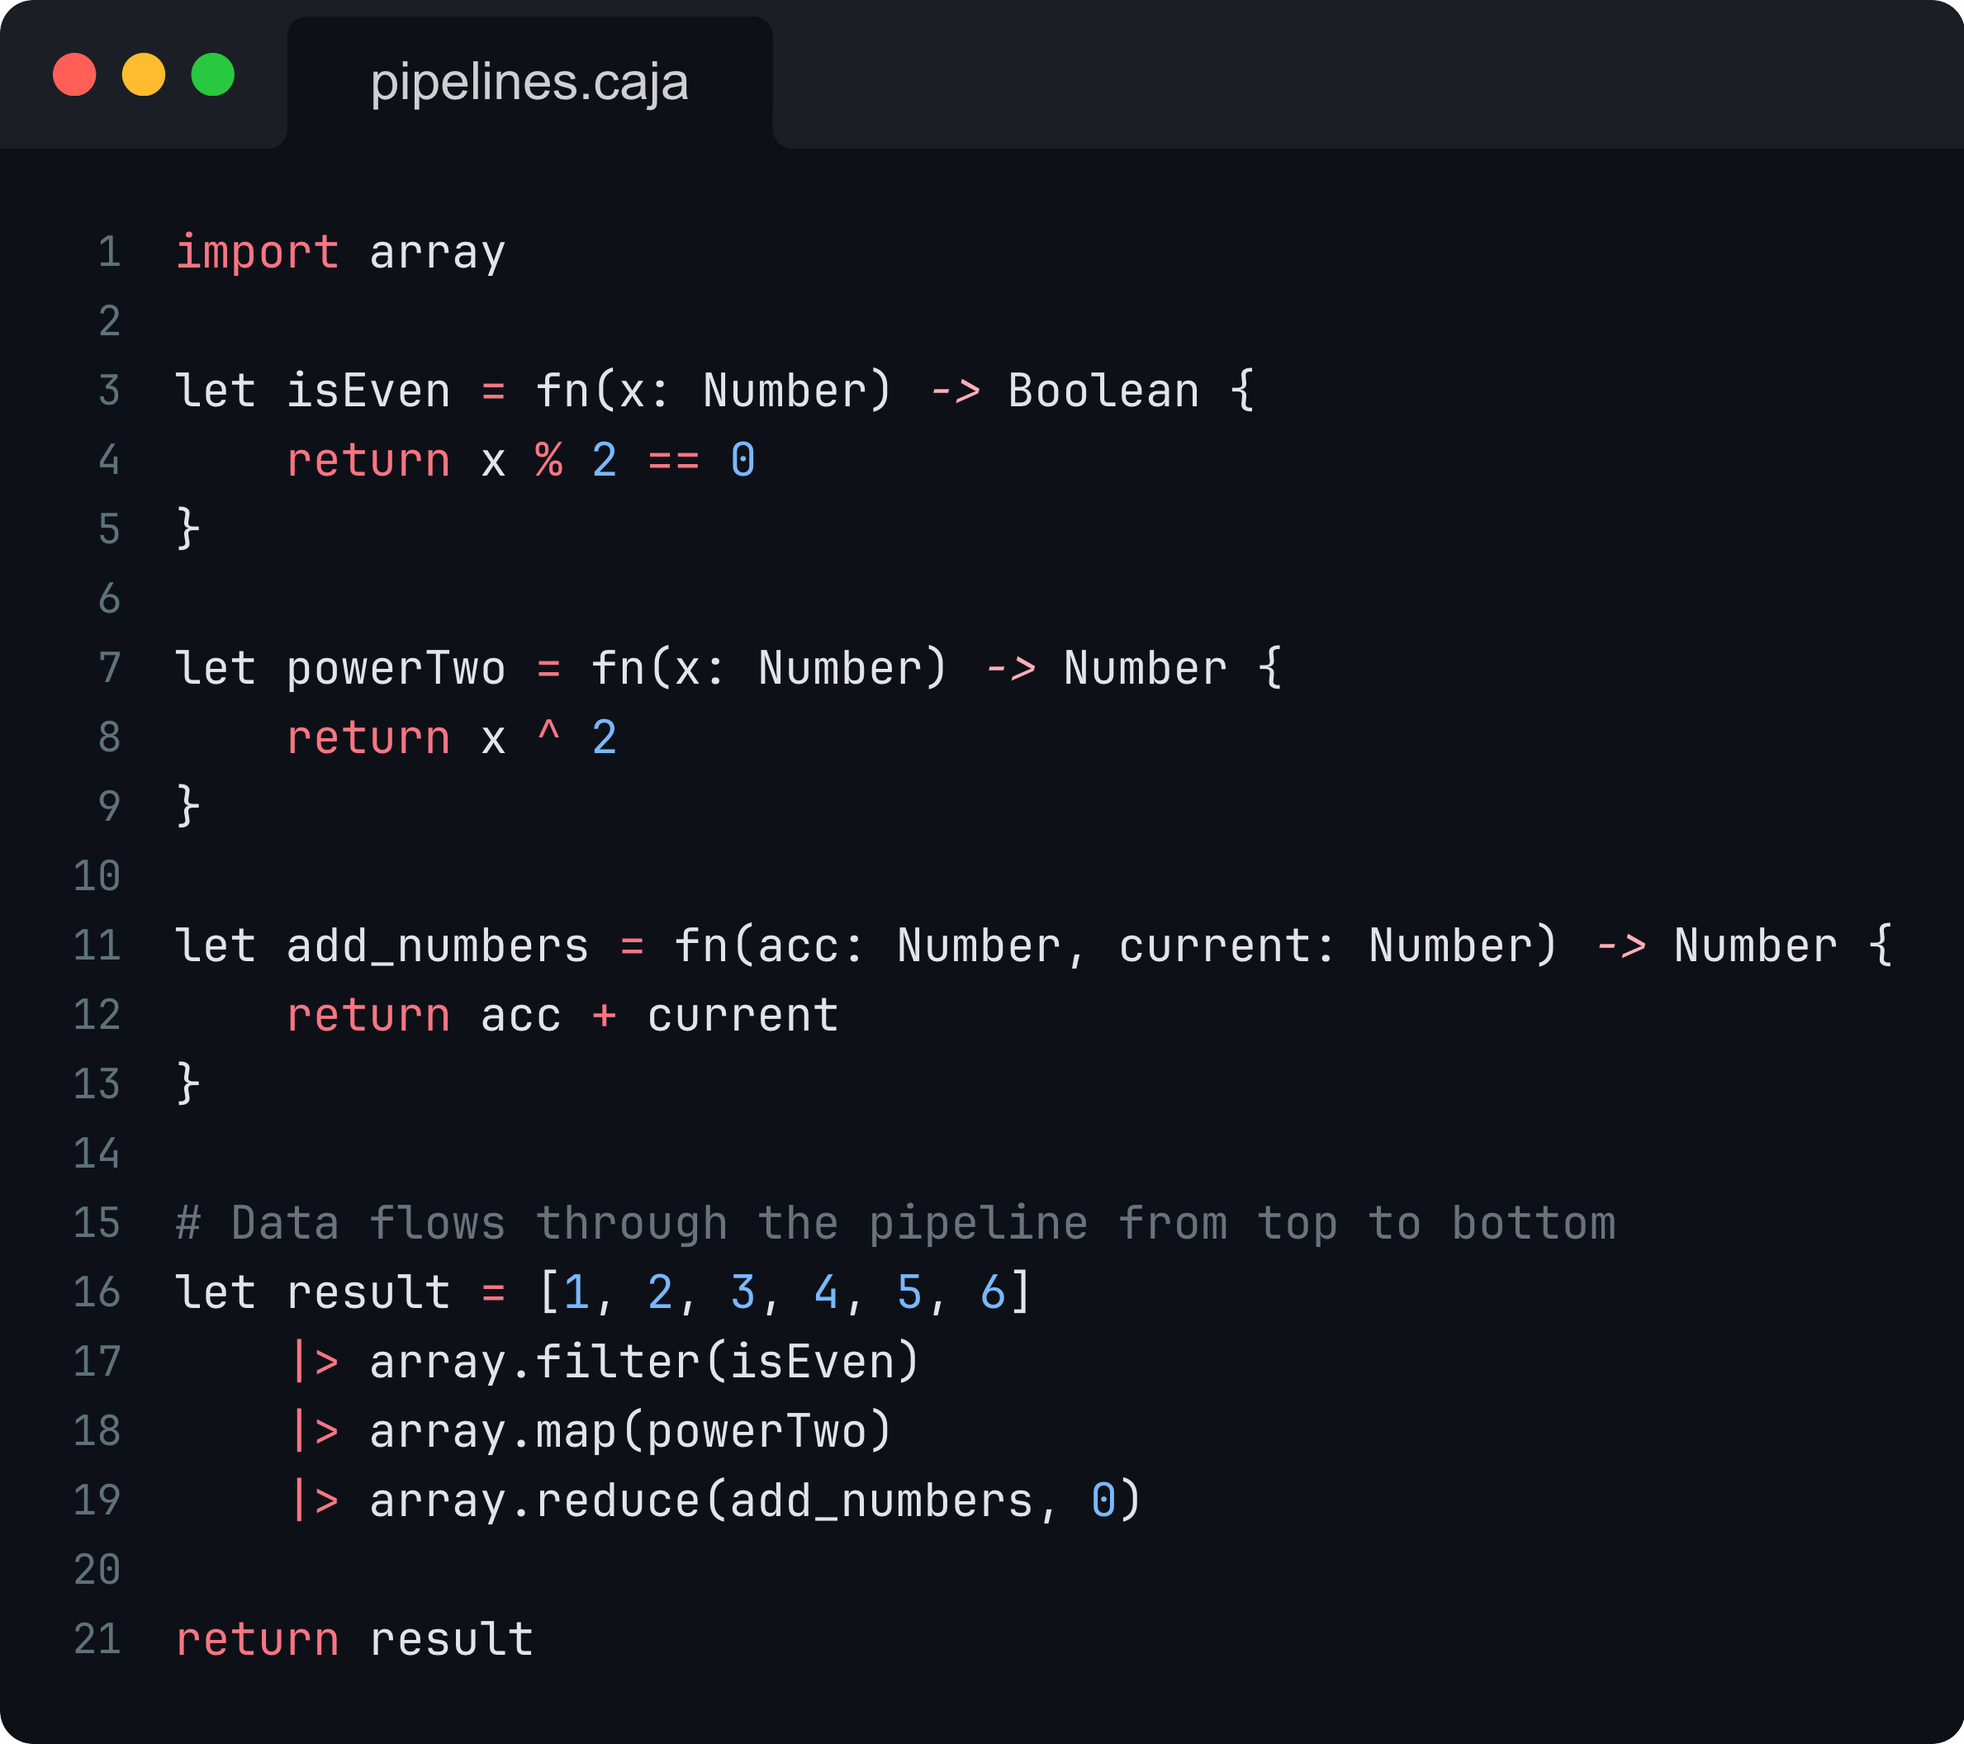
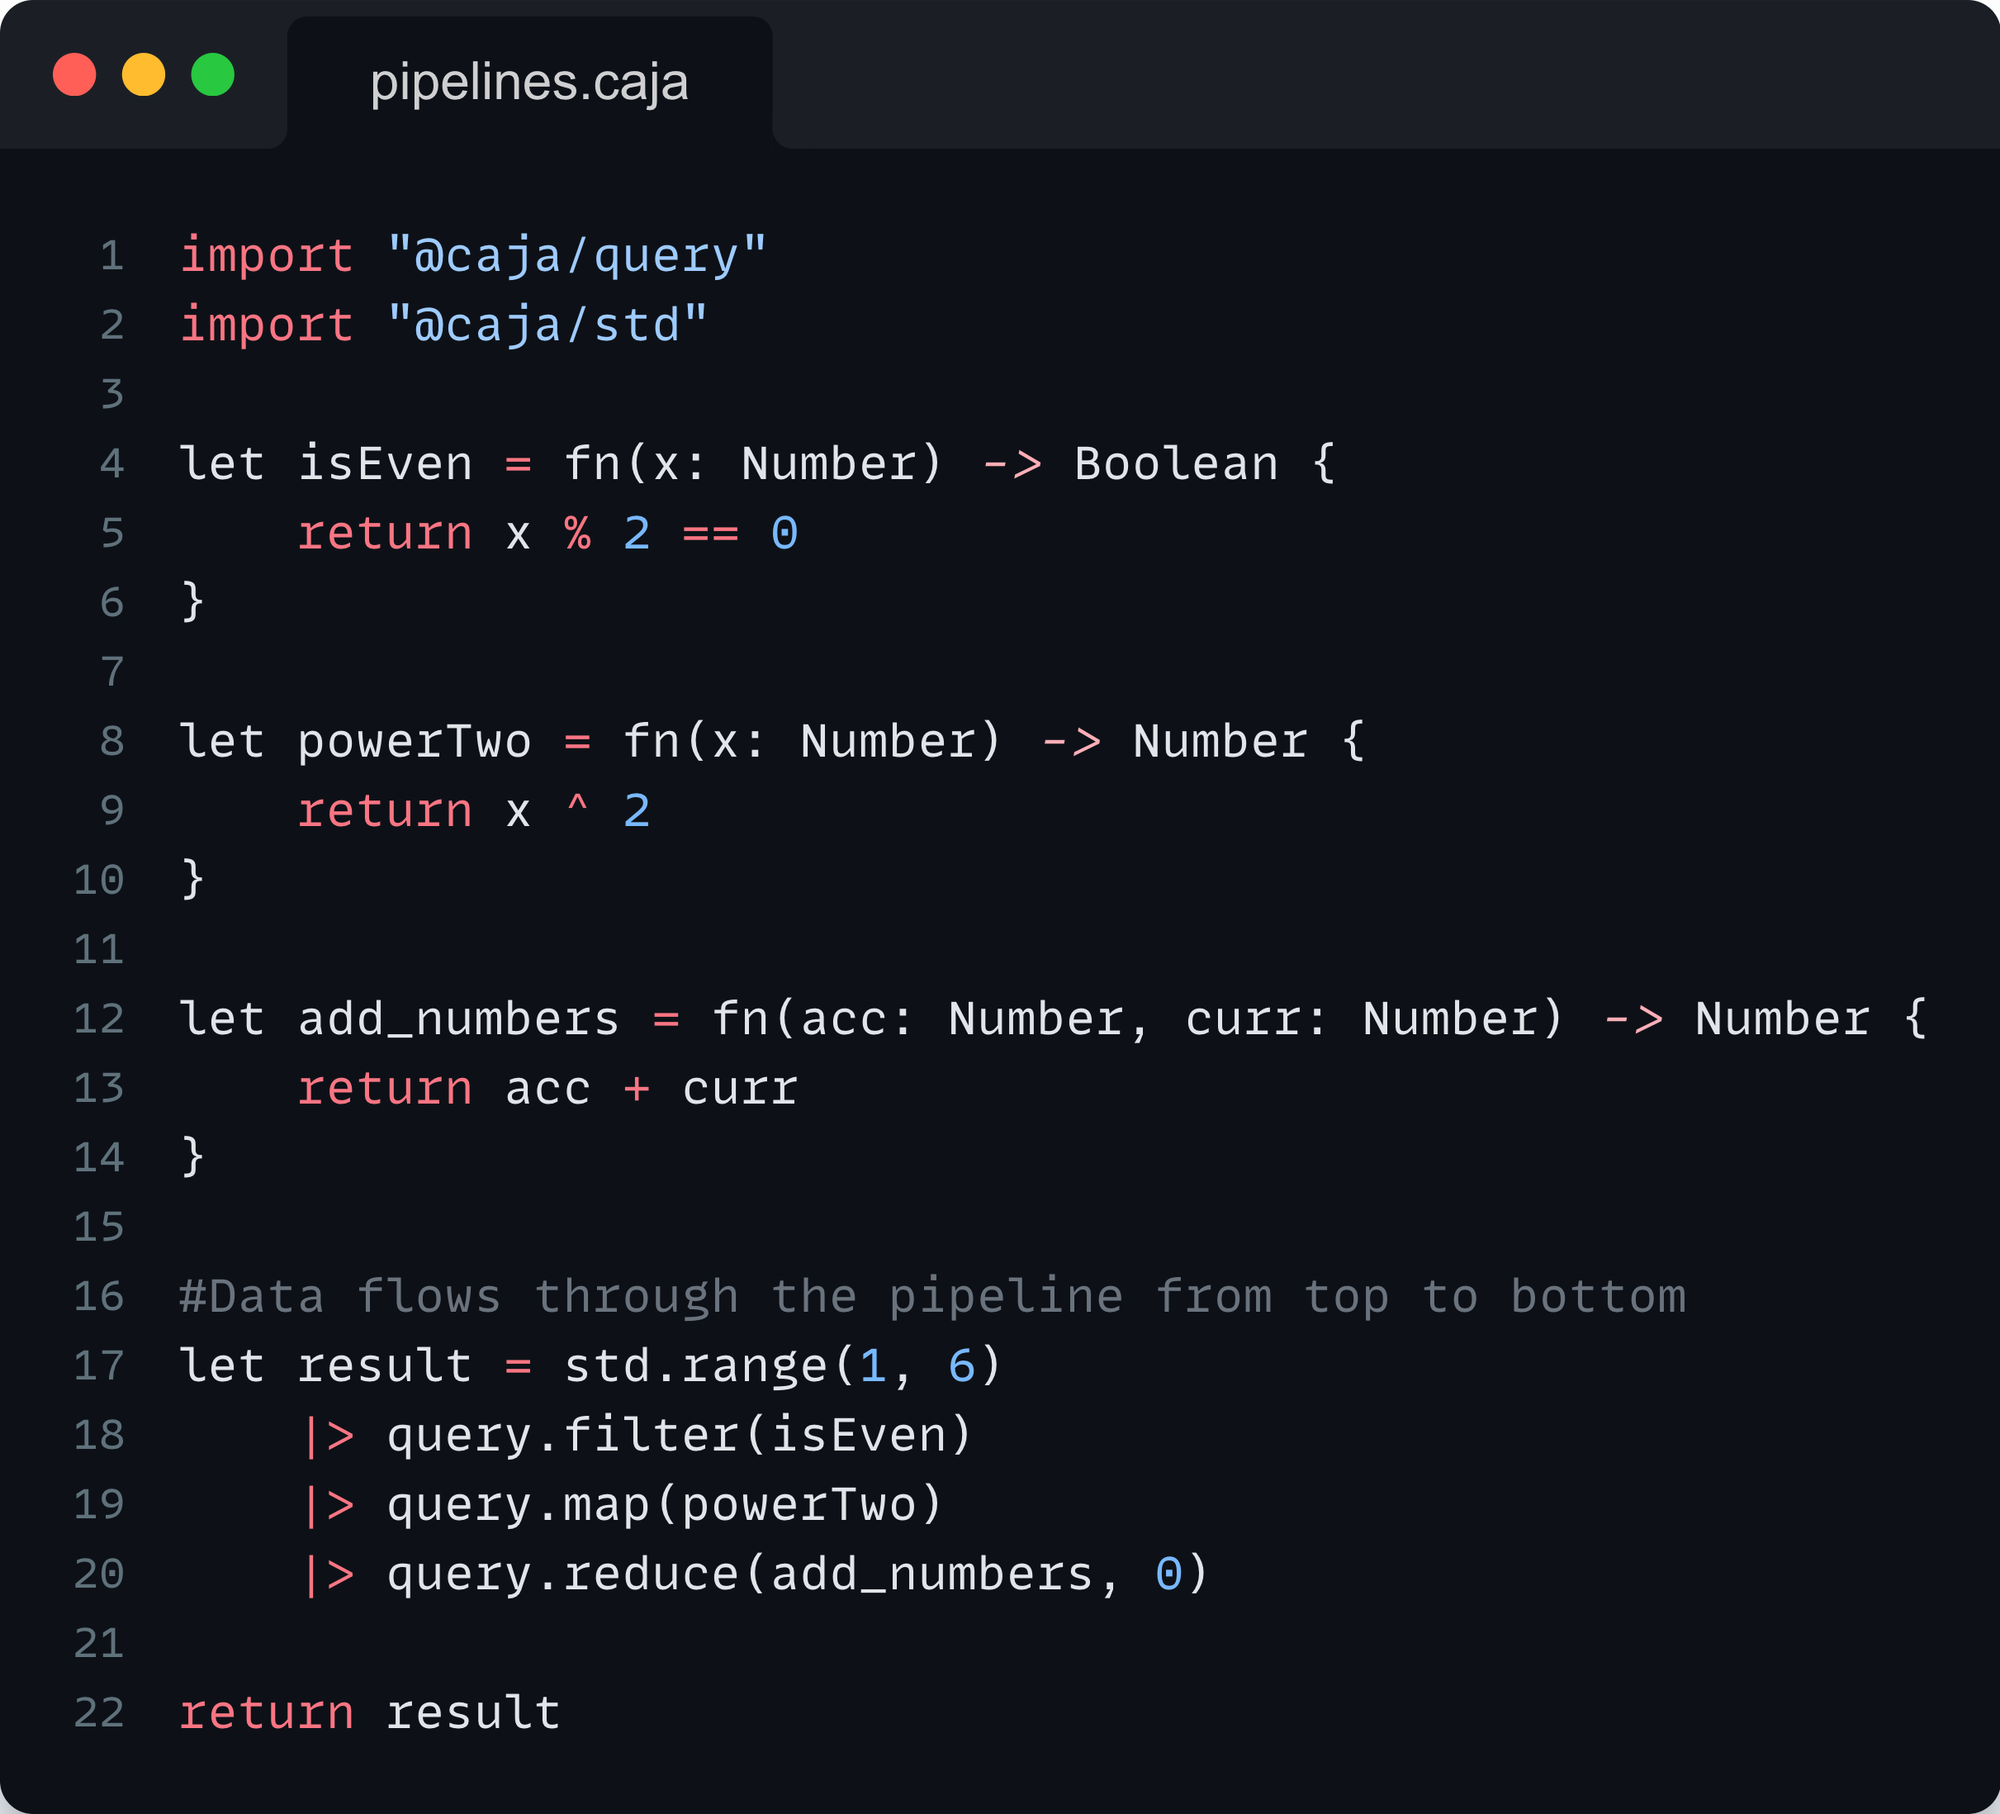
docs: update references for std and query libs

diff --git a/docs/libs/stdlib.md b/docs/libs/stdlib.md
@@ -1,27 +1,27 @@
-# The `stdlib` Library
+# The `std` Library
 
-Because Cajá intentionally omits imperative looping constructs like `for` and `while` loops, iterating over data requires recursion. While writing recursive functions is standard practice, the `stdlib` library abstracts away the boilerplate of recursion for common iteration patterns.
+Because Cajá intentionally omits imperative looping constructs like `for` and `while` loops, iterating over data requires recursion. While writing recursive functions is standard practice, the `std` library abstracts away the boilerplate of recursion for common iteration patterns.
 
-The `stdlib` module provides `forEach`, `forEachIndexed`, `while`, and `range` functions. Under the hood, these functions rely heavily on optimized tail-call recursion. This allows developers to use familiar iteration abstractions efficiently without mutating loop counters or compromising the declarative nature of the code.
+The `std` module provides `forEach`, `forEachIndexed`, `while`, and `range` functions. Under the hood, these functions rely heavily on optimized tail-call recursion. This allows developers to use familiar iteration abstractions efficiently without mutating loop counters or compromising the declarative nature of the code.
 
 ## Installation
 
 ::: code-group
 ```bash [npm]
-npm install @caja/stdlib
+npm install @caja/std
 ```
 ```bash [yarn]
-yarn add @caja/stdlib
+yarn add @caja/std
 ```
 ```bash [bun]
-bun add @caja/stdlib
+bun add @caja/std
 ```
 :::
 
 ## Example: Declarative Iteration
 
 ```caja
-import stdlib
+import "@caja/std"
 import log
 
 let printNum = fn(x: Number) -> Number {
@@ -30,8 +30,8 @@ let printNum = fn(x: Number) -> Number {
 }
 
 # Generate an array from 1 to 5 and declaratively iterate over it
-let numbers = stdlib.range(1, 5)
-stdlib.forEach(numbers, printNum)
+let numbers = std.range(1, 5)
+std.forEach(numbers, printNum)
 ```
 
 ## Source Code
@@ -39,9 +39,9 @@ stdlib.forEach(numbers, printNum)
 ```caja
 import array
 
-const forEach = fn<T>(arr: [T], procedure: fn(T) -> T) -> Boolean {
+const forEach = fn<T>(arr: [T], procedure: fn(T) -> T) -> Nothing {
     if (array.len(arr) == 0) {
-        return true
+        return
     }
 
     procedure(arr[0])
@@ -63,9 +63,9 @@ const forEachIndexed = fn<T>(arr: [T], procedure: fn(T, Number) -> T) -> Nothing
     return _forEachIndexed(arr, procedure, 0)
 }
 
-const while = fn<T>(state: T, condition: fn(T) -> Boolean, procedure: fn(T) -> T) -> T {
+const while = fn<T>(state: T, condition: fn(T) -> Boolean, procedure: fn(T) -> T) -> Nothing {
     if (!condition(state)) {
-        return state
+        return
     }
 
     let next_state = procedure(state)

diff --git a/docs/libs/query.md b/docs/libs/query.md
@@ -27,8 +27,8 @@ By combining the data-first `query` module with the pipeline operator, you can w
 ## Example: The Pipeline in Action
 
 ```caja
-import stdlib
-import query
+import "@caja/std"
+import "@caja/query"
 
 # Define our pure transformation functions
 let isEven = fn(x: Number) -> Boolean { 
@@ -44,7 +44,7 @@ let sum = fn(acc: Number, curr: Number) -> Number {
 }
 
 # The data flows from top to bottom, being transformed at each step
-let result = stdlib.range(1, 10)
+let result = std.range(1, 10)
     |> query.filter(isEven)
     |> query.map(double)
     |> query.reduce(sum, 0)
@@ -69,7 +69,7 @@ private const _map = fn<T, K>(arr: [T], transform: fn(T) -> K, acc: [K]) -> [K] 
     return _map(array.tail(arr), transform, next_acc) 
 }
 
-let map = fn<T, K>(arr: [T], transform: fn(T) -> K) -> [K] {
+const map = fn<T, K>(arr: [T], transform: fn(T) -> K) -> [K] {
     return _map(arr, transform, [])
 }
 

diff --git a/docs/libs/index.md b/docs/libs/index.md
@@ -6,7 +6,7 @@ title: Libraries
 
 Alongside the low-level built-in modules provided directly by the compiler (such as `math`, `string`, and `array`), the Cajá ecosystem features native libraries built entirely using pure Cajá code. 
 
-These libraries—chiefly `stdlib` and `query`—are designed to give you powerful, high-level abstractions while rigorously maintaining the declarative and immutable philosophy of the language.
+These libraries—chiefly `std` and `query`—are designed to give you powerful, high-level abstractions while rigorously maintaining the declarative and immutable philosophy of the language.
 
-- [The `stdlib` Library](./stdlib.md)
+- [The `std` Library](./stdlib.md)
 - [The `query` Library](./query.md)

diff --git a/docs/use-cases/revenue.md b/docs/use-cases/revenue.md
@@ -9,7 +9,7 @@ In this example, we process a list of transactions to calculate the total valid 
 
 ```caja
 import array
-import query
+import "@caja/query"
 
 # Define custom types and structs
 type Transaction struct {

diff --git a/docs/use-cases/financial.md b/docs/use-cases/financial.md
@@ -9,8 +9,8 @@ In this example, we define a `Loan` struct and calculate the compound interest f
 
 ```caja
 import array
-import query
 import math
+import "@caja/query"
 
 type Loan struct {
     id String

diff --git a/docs/use-cases/ecommerce.md b/docs/use-cases/ecommerce.md
@@ -11,7 +11,7 @@ This approach turns a complex sequence of operations into a highly readable, dec
 
 ```caja
 import array
-import query
+import "@caja/query"
 
 type Product struct {
     name String
